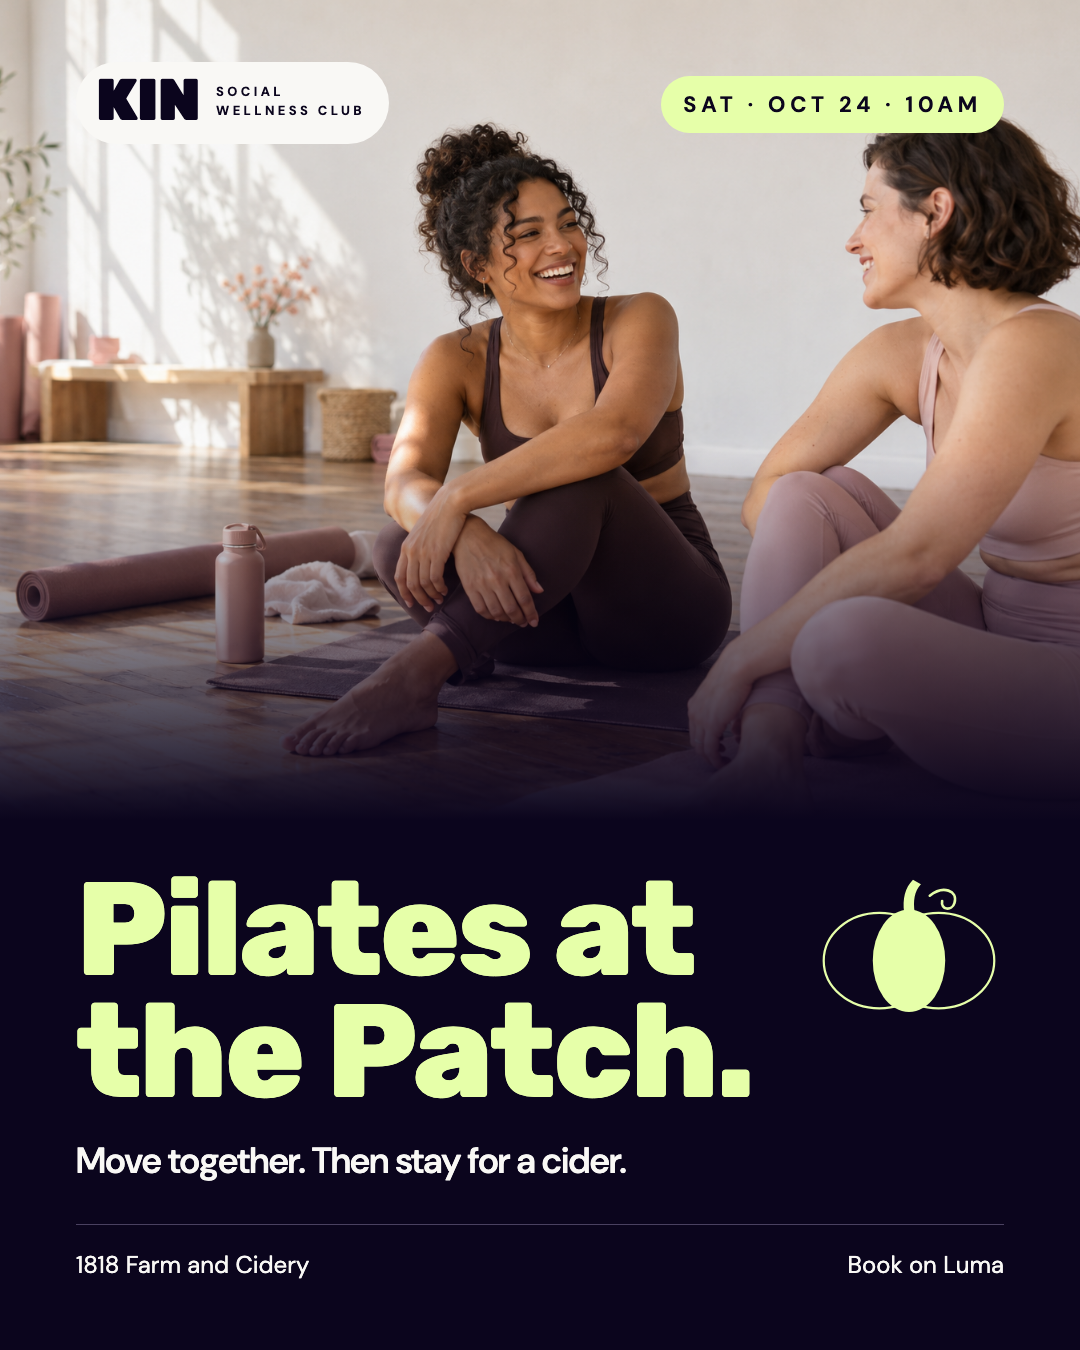
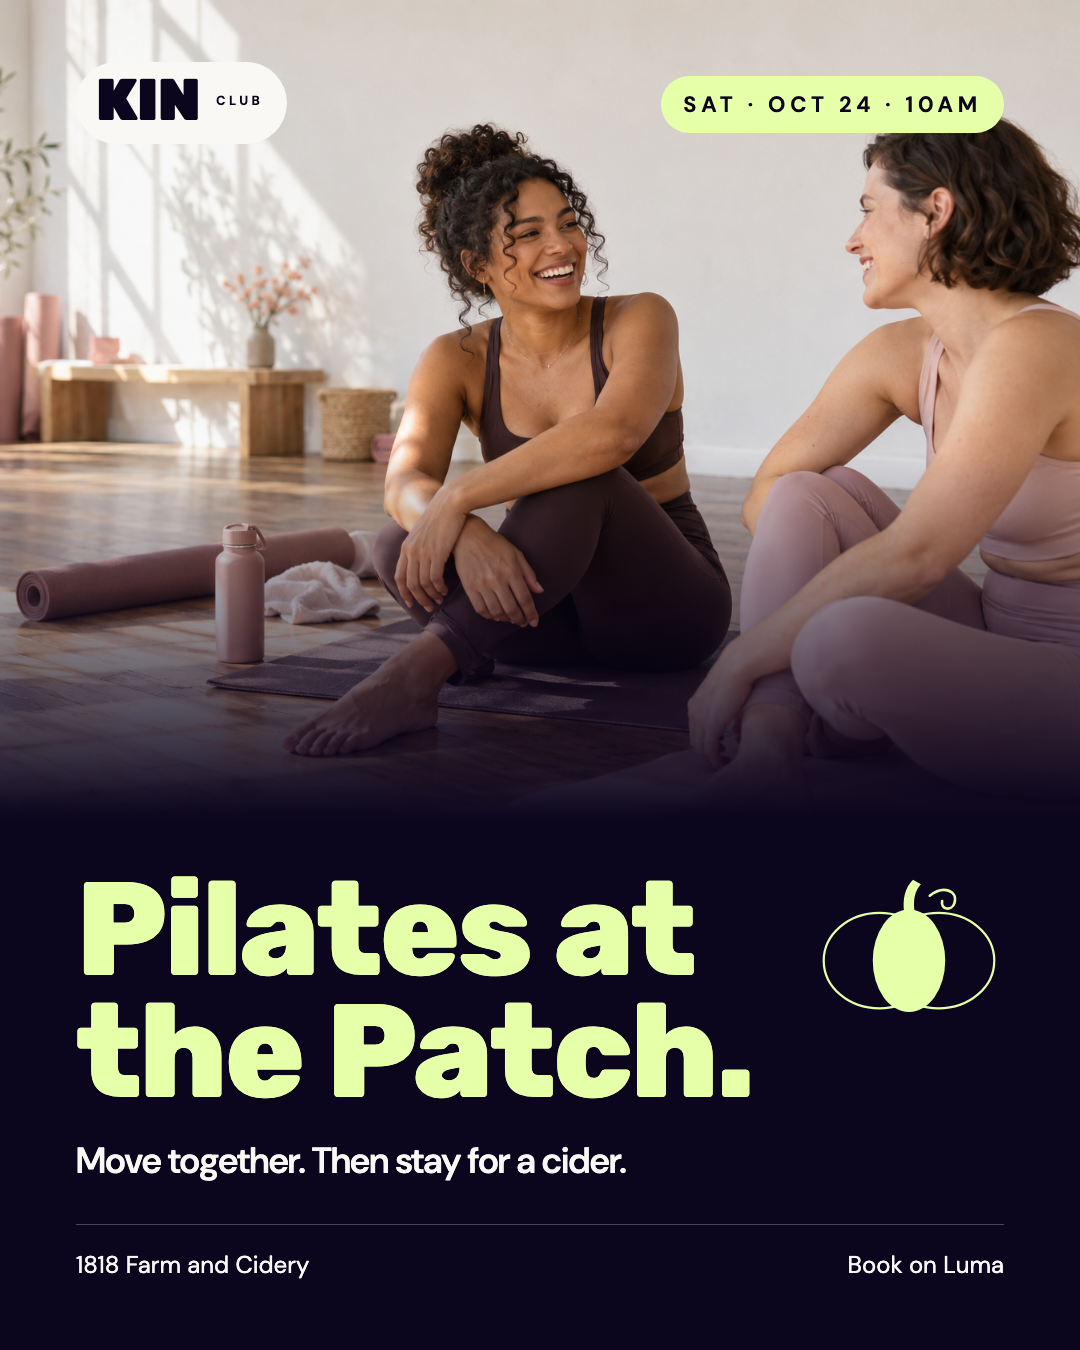
Keep the name KIN Club in the lockup

Changed region(s): [[0.1833, 0.0311, 0.3667, 0.1244]]

diff --git a/index.html b/index.html
@@ -14,7 +14,7 @@
 <body>
   <a class="skip-link" href="#main">Skip to content</a>
   <header class="site-header">
-    <a class="wordmark" href="#" aria-label="KIN Social Wellness Club home">KIN<span>Social wellness club</span></a>
+    <a class="wordmark" href="#" aria-label="KIN Club home">KIN<span>Club</span></a>
     <nav aria-label="Main navigation"><a class="nav-event" href="#next-event">Next event</a><a href="#experience">The experience</a><a href="#story">Our story</a><a href="#questions">Good to know</a></nav>
   </header>
   <main id="main">
@@ -82,6 +82,6 @@
     </section>
     <section class="closing-cta" aria-label="Next event"><p><strong>Pilates at the Patch</strong> Saturday, October 24 · 10am · 1818 Farm and Cidery</p><a class="button button-dark" href="#next-event">See the event</a></section>
   </main>
-  <footer class="site-footer"><div class="footer-top"><p>Come find<br>your KIN.</p><p>A familiar face.<br>A place for you.</p><div class="footer-links"><a href="brand.html">The brand concept</a><a href="social.html">Instagram concepts</a></div></div><a class="footer-mark" href="#" aria-label="KIN Club, back to top"><svg class="kin-icon" viewBox="0 -8 260 118" aria-hidden="true"><g fill="currentColor"><circle cx="58" cy="26" r="20"/><circle cx="130" cy="18" r="20"/><circle cx="202" cy="26" r="20"/></g><path d="M18 92 C40 52 76 52 94 80 C108 100 120 64 130 60 C140 64 152 100 166 80 C184 52 220 52 242 92" fill="none" stroke="currentColor" stroke-width="26" stroke-linecap="round" stroke-linejoin="round"/></svg><b>KIN</b><span>Social wellness club</span></a><div class="footer-bottom"><span>KIN Social Wellness Club · Movement meets good company</span><span>Private concept · October 2026</span></div></footer>
+  <footer class="site-footer"><div class="footer-top"><p>Come find<br>your KIN.</p><p>A familiar face.<br>A place for you.</p><div class="footer-links"><a href="brand.html">The brand concept</a><a href="social.html">Instagram concepts</a></div></div><a class="footer-mark" href="#" aria-label="KIN Club, back to top"><svg class="kin-icon" viewBox="0 -8 260 118" aria-hidden="true"><g fill="currentColor"><circle cx="58" cy="26" r="20"/><circle cx="130" cy="18" r="20"/><circle cx="202" cy="26" r="20"/></g><path d="M18 92 C40 52 76 52 94 80 C108 100 120 64 130 60 C140 64 152 100 166 80 C184 52 220 52 242 92" fill="none" stroke="currentColor" stroke-width="26" stroke-linecap="round" stroke-linejoin="round"/></svg><b>KIN</b><span>Club</span></a><div class="footer-bottom"><span>KIN Club · Movement meets good company</span><span>Private concept · October 2026</span></div></footer>
 </body>
 </html>

diff --git a/brand.html b/brand.html
@@ -9,7 +9,7 @@
 </head>
 <body>
   <a class="skip-link" href="#main">Skip to content</a>
-  <header class="site-header brand-header"><a class="wordmark" href="index.html" aria-label="KIN Club website">KIN<span>Social wellness club</span></a><a href="index.html">View the website concept</a></header>
+  <header class="site-header brand-header"><a class="wordmark" href="index.html" aria-label="KIN Club website">KIN<span>Club</span></a><a href="index.html">View the website concept</a></header>
   <main id="main">
     <section class="brand-hero"><p class="eyebrow">Private direction · 07 October 2026</p><h1>A club starts<br>with a hello.</h1><p>A first brand and experience concept for Rachel Feldberg. Built around one belief: movement can give people a reason to meet. Thoughtful hosting helps them actually do it.</p></section>
     <section class="brand-section"><p class="eyebrow">01 / The position</p><h2>Make the first hello easier.</h2><p class="large-copy">KIN brings people together through movement and wellness, but the ultimate goal is human connection. The workout, Pilates class, run, hike, coffee or social event is the vehicle for people to meet, connect and build relationships.</p><div class="two-col"><div><h3>The person we’re here for</h3><p>Anyone who wants more people in their life. They might be new to Ottawa, or simply ready for a wider circle. They like the idea of going, but feel unsure about arriving alone.</p></div><div><h3>The promise we can keep</h3><p>You will be welcomed and given an easy way to meet someone. We cannot promise a best friend. We can promise that making the first introduction won’t be left entirely to you.</p></div></div><p><strong>Mission:</strong> Make it easier for people to build connections through movement.</p><h3>KIN = your people.</h3><p>Traditionally, <em>kin</em> means family, the people you are closely connected to.</p><ul><li><strong>KIN = family.</strong> Your people, your community, your sense of belonging.</li><li><strong>KIN = kinesthetic.</strong> Movement, the body, energy, and physical connection.</li><li><strong>KIN = connection.</strong> Meeting new people, building relationships, and shared experiences.</li></ul><p><strong>Brand line:</strong> Come find your KIN.</p></section>

diff --git a/social.html b/social.html
@@ -9,7 +9,7 @@
 </head>
 <body>
   <a class="skip-link" href="#main">Skip to content</a>
-  <header class="site-header brand-header"><a class="wordmark" href="index.html" aria-label="KIN Club website">KIN<span>Social wellness club</span></a><nav aria-label="Concept navigation"><a href="brand.html">Brand direction</a><a href="index.html">Website</a></nav></header>
+  <header class="site-header brand-header"><a class="wordmark" href="index.html" aria-label="KIN Club website">KIN<span>Club</span></a><nav aria-label="Concept navigation"><a href="brand.html">Brand direction</a><a href="index.html">Website</a></nav></header>
   <main id="main">
     <section class="social-lead"><p class="eyebrow">Instagram concepts · Private review</p><h1>KIN, in the feed.</h1><p>Lime, lilac and ink do the work. Stone and paper give it room.</p><div class="palette-strip" aria-label="Proposed social palette"><span><i style="background:#E6FFA9"></i>Lime <small>#E6FFA9</small></span><span><i style="background:#B798BE"></i>Lilac <small>#B798BE</small></span><span><i style="background:#E4E3DF"></i>Stone <small>#E4E3DF</small></span><span><i style="background:#0B051D"></i>Ink <small>#0B051D</small></span><span><i style="background:#F9F8F5"></i>Paper <small>#F9F8F5</small></span><span><i style="background:#2C2242"></i>Plum <small>#2C2242</small></span></div></section>
     <section class="poster-section" aria-labelledby="poster-title"><div class="social-section-title"><h2 id="poster-title">Three ways to say hello.</h2><p>Three finished PNG concepts, each 1080 × 1350 pixels.</p></div><div class="poster-grid">
